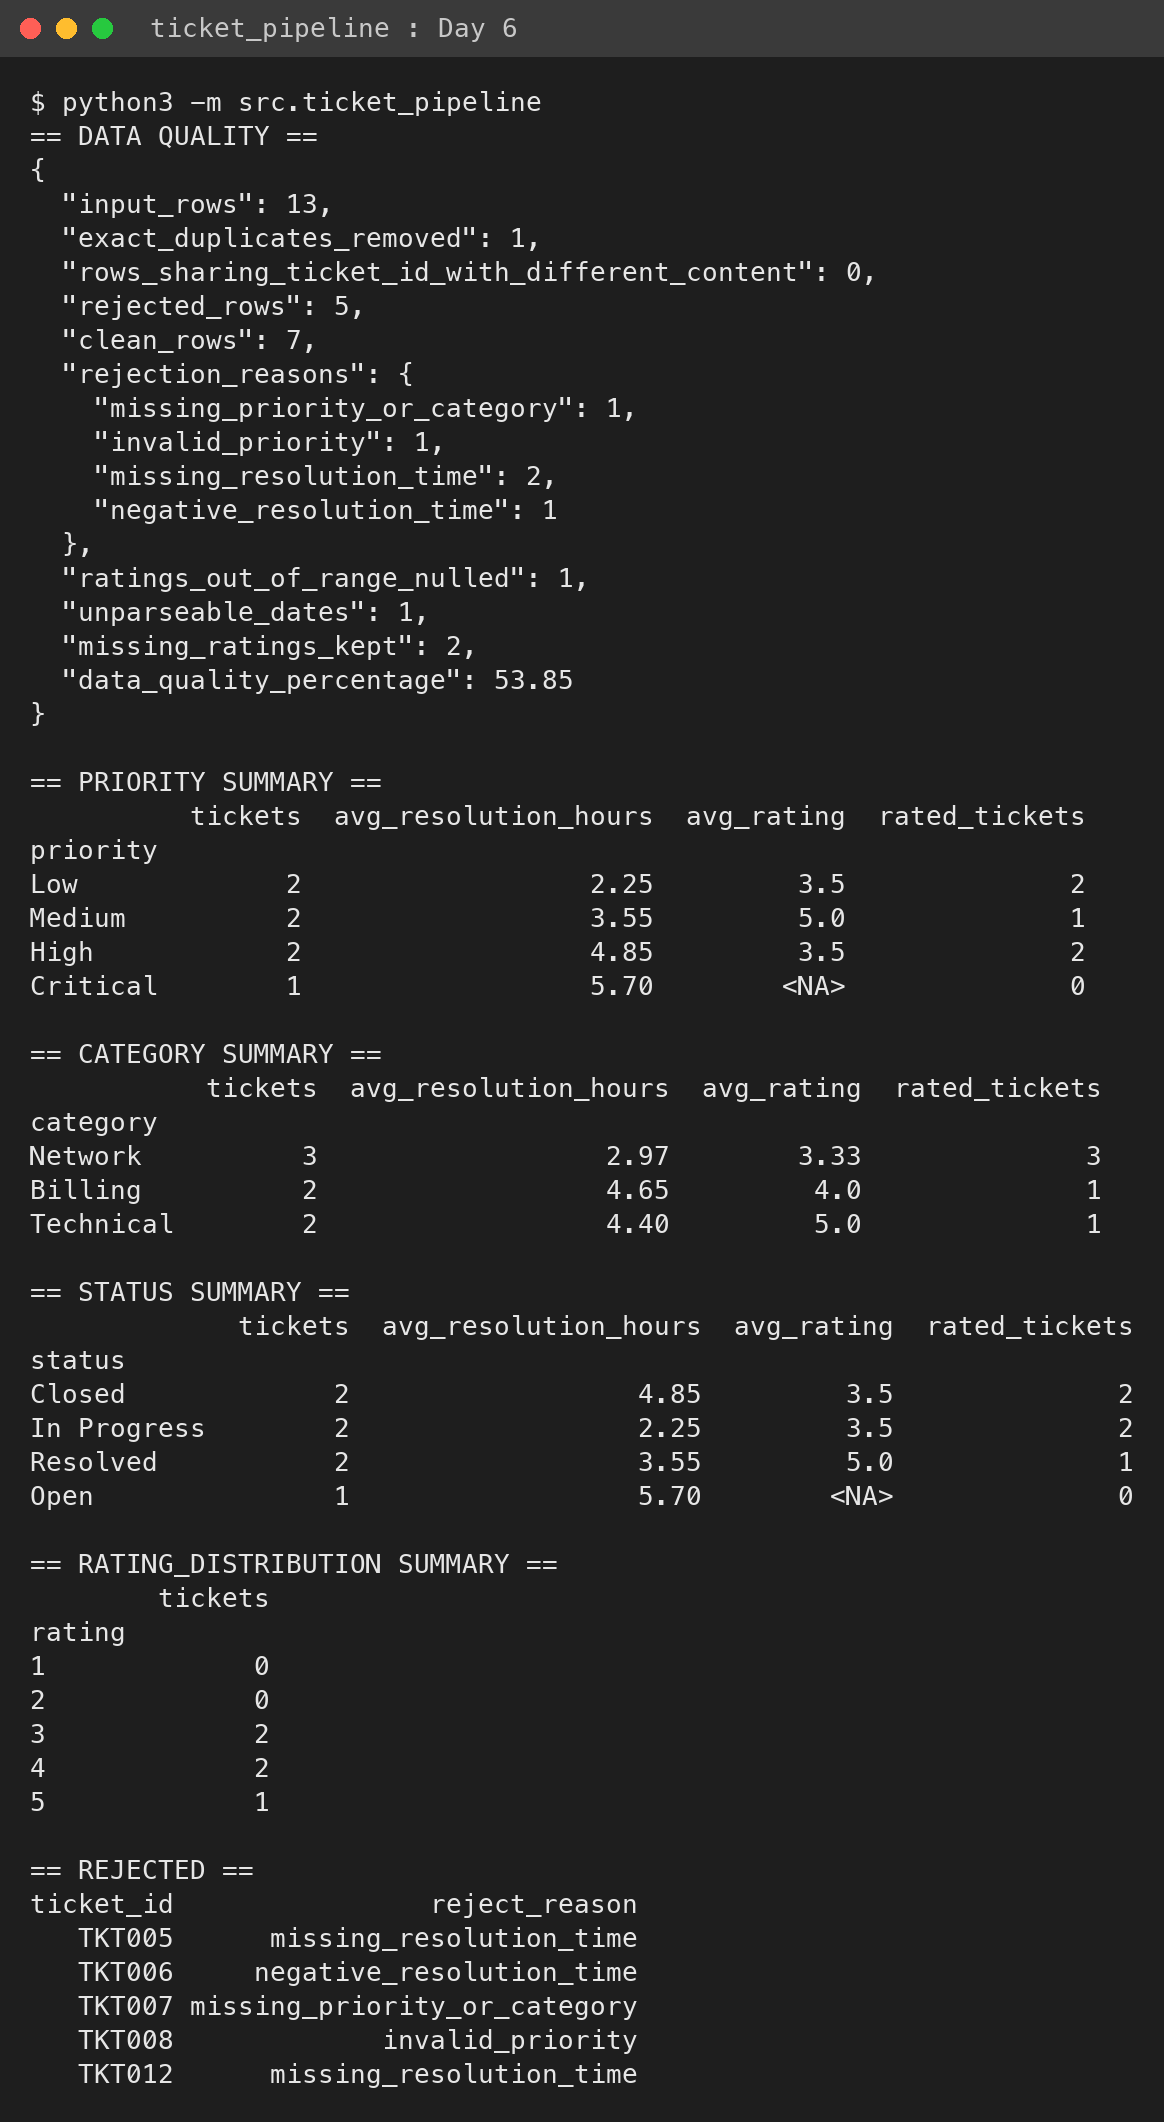
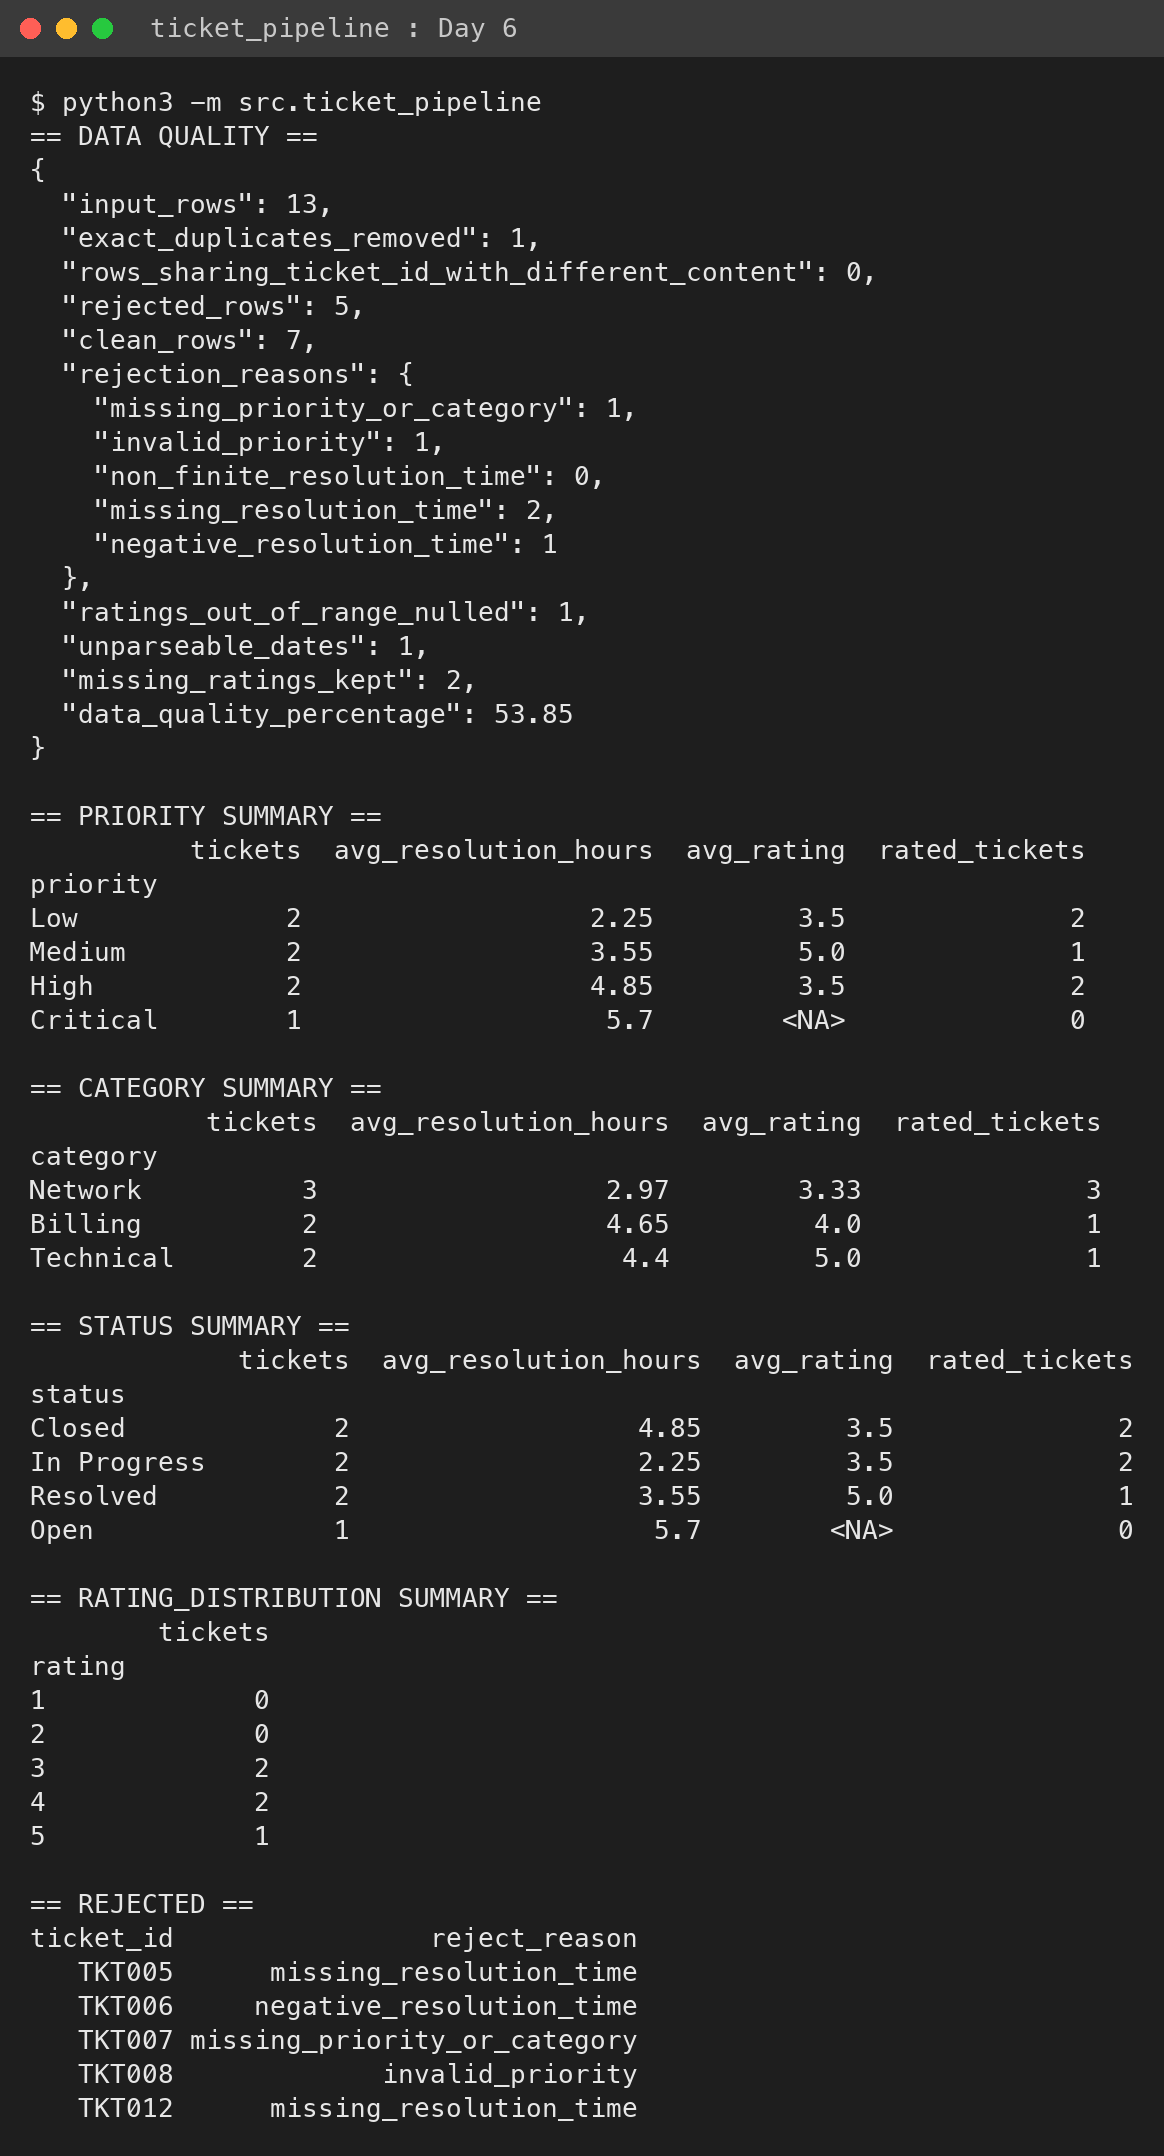
Harden CSV loading and validation; add regression tests
Reject non-finite resolution times, duplicate raw/normalized headers and
rows with wrong field counts; clear errors for missing/empty/non-UTF-8
files; stop title-casing category (IT -> It). 29 tests pass.

diff --git a/src/ticket_pipeline.py b/src/ticket_pipeline.py
@@ -3,11 +3,12 @@
 Cleaning rules (assumptions)
 ----------------------------
 R1  Column names are trimmed, lower-cased, spaces -> underscores.
-R2  Text fields are trimmed; priority/status are Title-cased, category too.
+R2  Text fields are trimmed; priority/status are Title-cased; category case
+    variants are unified to the most common spelling (keeps "IT" intact).
     Blank strings become missing (NA).
 R3  Exact duplicate rows are dropped (first kept); duplicate ticket_id with
     different content is flagged but both rows are kept for review.
-R4  Non-numeric / negative resolution_time_hours -> invalid, row rejected.
+R4  Non-numeric / negative / infinite resolution_time_hours -> invalid, row rejected.
     Missing resolution time is NEVER imputed (unknown != 0 or mean).
 R5  Missing priority or category -> row rejected (cannot be summarised).
 R6  priority must be in VALID_PRIORITIES, otherwise rejected (no guessing,
@@ -16,13 +17,19 @@ R7  rating must be an integer 1-5. Missing rating is KEPT as NA (a ticket
     can be valid without feedback); out-of-range rating is set to NA and
     counted, the row itself stays valid.
 R8  Unparseable created_at -> NA (ISO strings kept), counted, row stays valid.
+Input shape (strict, in load_ticket_csv): duplicate headers (raw or after
+normalization), rows with the wrong field count, empty/missing/undecodable
+files all raise TicketDataError - nothing is guessed or shifted.
 Raw input is never mutated; every step works on a copy.
 """
 
 from __future__ import annotations
 
+import csv
 from datetime import date
+from pathlib import Path
 
+import numpy as np
 import pandas as pd
 
 
@@ -48,6 +55,60 @@ RATING_RANGE = (1, 5)
 
 
 # ---------- Task A: schema ----------
+class TicketDataError(ValueError):
+    """Raised for unreadable, malformed or ambiguous ticket input."""
+
+
+def _norm_name(name: str) -> str:
+    return str(name).strip().lower().replace(" ", "_")
+
+
+def load_ticket_csv(path: str | Path) -> pd.DataFrame:
+    """Read a CSV as strings with strict shape checks. Raw file is not modified.
+
+    Uses the csv module (not pd.read_csv) so that duplicate raw headers are
+    seen before pandas renames them (priority -> priority.1), rows with too
+    many/few fields are rejected instead of shifting columns, and no column
+    is silently turned into the index.
+    """
+    path = Path(path)
+    if not path.exists():
+        raise TicketDataError(f"File not found: {path}")
+    if not path.is_file():
+        raise TicketDataError(f"Not a file: {path}")
+    try:
+        text = path.read_text(encoding="utf-8-sig")
+    except UnicodeDecodeError as exc:
+        raise TicketDataError("CSV must be UTF-8 encoded.") from exc
+    except OSError as exc:
+        raise TicketDataError(f"Cannot read {path}: {exc.strerror}") from exc
+
+    try:
+        rows = [r for r in csv.reader(text.splitlines(), strict=True) if any(c.strip() for c in r)]
+    except csv.Error as exc:
+        raise TicketDataError(f"Malformed CSV: {exc}") from exc
+    if not rows:
+        raise TicketDataError("CSV file is empty.")
+
+    header, body = rows[0], rows[1:]
+    raw_dupes = {h for h in header if header.count(h) > 1}
+    if raw_dupes:
+        raise TicketDataError(f"Duplicate column names: {', '.join(sorted(raw_dupes))}")
+    normed = [_norm_name(h) for h in header]
+    norm_dupes = {h for h in normed if normed.count(h) > 1}
+    if norm_dupes:
+        raise TicketDataError(
+            f"Duplicate column names after normalization: {', '.join(sorted(norm_dupes))}"
+        )
+    for line_no, row in enumerate(rows[1:], start=2):
+        if len(row) != len(header):
+            raise TicketDataError(
+                f"Malformed CSV: row {line_no} has {len(row)} fields, expected {len(header)}."
+            )
+    df = pd.DataFrame(body, columns=header, dtype="string")
+    return df.replace("", pd.NA)
+
+
 def normalize_columns(df: pd.DataFrame) -> pd.DataFrame:
     out = df.copy()
     out.columns = [str(c).strip().lower().replace(" ", "_") for c in out.columns]
@@ -55,17 +116,29 @@ def normalize_columns(df: pd.DataFrame) -> pd.DataFrame:
 
 
 def validate_schema(df: pd.DataFrame) -> None:
-    """Raise ValueError if required columns are missing/duplicated or df empty."""
+    """Raise TicketDataError (a ValueError) if required columns are missing/duplicated or df empty."""
     if df.columns.duplicated().any():
-        raise ValueError("Duplicate column names after normalization.")
+        raise TicketDataError("Duplicate column names after normalization.")
     missing = [c for c in REQUIRED_SCHEMA if c not in df.columns]
     if missing:
-        raise ValueError(f"Missing required columns: {', '.join(missing)}")
+        raise TicketDataError(f"Missing required columns: {', '.join(missing)}")
     if df.empty:
-        raise ValueError("Input contains no rows.")
+        raise TicketDataError("Input contains no rows.")
 
 
 # ---------- Task B: cleaning ----------
+def _canonical_case(series: pd.Series) -> pd.Series:
+    """Map case-variants ("network", "Network") to one deterministic spelling."""
+    valid = series.dropna()
+    if valid.empty:
+        return series
+    counts = valid.value_counts()
+    canon = {}
+    for value in sorted(counts.index, key=lambda v: (-counts[v], v)):
+        canon.setdefault(value.casefold(), value)
+    return series.map(lambda v: canon[v.casefold()] if pd.notna(v) else v).astype("string")
+
+
 def clean_tickets(raw: pd.DataFrame) -> tuple[pd.DataFrame, pd.DataFrame, dict]:
     """Return (clean, rejected, stats). `raw` is left unchanged."""
     df = normalize_columns(raw)
@@ -75,7 +148,7 @@ def clean_tickets(raw: pd.DataFrame) -> tuple[pd.DataFrame, pd.DataFrame, dict]:
     for col in ["ticket_id", "priority", "category", "status"]:
         if col in df.columns:
             df[col] = df[col].astype("string").str.strip().replace("", pd.NA)
-    for col in ["priority", "category", "status"]:
+    for col in ["priority", "status"]:
         if col in df.columns:
             df[col] = df[col].str.title()
 
@@ -83,6 +156,9 @@ def clean_tickets(raw: pd.DataFrame) -> tuple[pd.DataFrame, pd.DataFrame, dict]:
     dup_exact = df.duplicated(keep="first")
     n_dup_exact = int(dup_exact.sum())
     df = df.loc[~dup_exact].copy()
+    # Category: unify case variants to the most common spelling (ties ->
+    # alphabetical) instead of .title(), which would corrupt "IT" -> "It".
+    df["category"] = _canonical_case(df["category"])
     conflicting_ids = int(
         df["ticket_id"].dropna().duplicated(keep=False).sum()
     )
@@ -91,6 +167,9 @@ def clean_tickets(raw: pd.DataFrame) -> tuple[pd.DataFrame, pd.DataFrame, dict]:
     df["resolution_time_hours"] = pd.to_numeric(
         df["resolution_time_hours"], errors="coerce"
     )
+    # R4b: +inf/-inf are not real durations; count separately, then treat as invalid
+    non_finite = np.isinf(df["resolution_time_hours"].astype("float64"))
+    df.loc[non_finite, "resolution_time_hours"] = np.nan
 
     # optional columns
     rating_out_of_range = 0
@@ -113,13 +192,15 @@ def clean_tickets(raw: pd.DataFrame) -> tuple[pd.DataFrame, pd.DataFrame, dict]:
     reasons = pd.DataFrame(index=df.index)
     reasons["missing_priority_or_category"] = df[["priority", "category"]].isna().any(axis=1)
     reasons["invalid_priority"] = df["priority"].notna() & ~df["priority"].isin(VALID_PRIORITIES)
-    reasons["missing_resolution_time"] = df["resolution_time_hours"].isna()
+    reasons["non_finite_resolution_time"] = non_finite
+    reasons["missing_resolution_time"] = df["resolution_time_hours"].isna() & ~non_finite
     reasons["negative_resolution_time"] = df["resolution_time_hours"] < 0
+    reasons = reasons.fillna(False).astype(bool)
     reject = reasons.any(axis=1)
 
     rejected = df.loc[reject].copy()
     rejected["reject_reason"] = [
-        ";".join(reasons.columns[list(flags)])
+        ";".join(reasons.columns[np.asarray(flags, dtype=bool)])
         for flags in reasons.loc[reject].to_numpy()
     ]
     clean = df.loc[~reject].reset_index(drop=True)
@@ -167,8 +248,7 @@ def build_report(clean: pd.DataFrame) -> dict[str, pd.DataFrame]:
 
 # ---------- orchestration ----------
 def run_pipeline(raw_path: str, out_dir: str) -> dict:
-    from pathlib import Path
-    raw = pd.read_csv(raw_path, dtype=str, keep_default_na=True)
+    raw = load_ticket_csv(raw_path)
     clean, rejected, stats = clean_tickets(raw)
     report = build_report(clean)
     out = Path(out_dir)
@@ -184,7 +264,11 @@ if __name__ == "__main__":
     import json
     import sys
     raw_path = sys.argv[1] if len(sys.argv) > 1 else "data/raw/tickets_raw.csv"
-    res = run_pipeline(raw_path, "data/processed")
+    try:
+        res = run_pipeline(raw_path, "data/processed")
+    except TicketDataError as exc:
+        print(f"ERROR: {exc}", file=sys.stderr)
+        sys.exit(1)
     print("== DATA QUALITY ==")
     print(json.dumps(res["stats"], indent=2))
     for name, table in res["report"].items():

diff --git a/tests/test_ticket_pipeline.py b/tests/test_ticket_pipeline.py
@@ -1,7 +1,14 @@
 import pandas as pd
 import pytest
 
-from src.ticket_pipeline import build_report, clean_tickets, validate_schema
+from src.ticket_pipeline import (
+    TicketDataError,
+    build_report,
+    clean_tickets,
+    load_ticket_csv,
+    run_pipeline,
+    validate_schema,
+)
 
 
 def make(rows):
@@ -111,3 +118,90 @@ def test_bad_date_nulled_row_kept():
     clean, _, stats = clean_tickets(df)
     assert len(clean) == 1 and pd.isna(clean.loc[0, "created_at"])
     assert stats["unparseable_dates"] == 1
+
+
+# ---------- loader / review-derived regressions ----------
+HEADER = "ticket_id,priority,category,resolution_time_hours\n"
+
+
+def write(tmp_path, text, name="t.csv"):
+    p = tmp_path / name
+    p.write_text(text)
+    return p
+
+
+@pytest.mark.parametrize("value", ["inf", "-inf", "Infinity"])
+def test_non_finite_resolution_rejected(tmp_path, value):
+    raw = load_ticket_csv(write(tmp_path, HEADER + f"T1,High,IT,{value}\nT2,Low,Billing,2\n"))
+    clean, rejected, stats = clean_tickets(raw)
+    assert clean["resolution_time_hours"].tolist() == [2.0]
+    assert rejected["reject_reason"].iloc[0] == "non_finite_resolution_time"
+    assert stats["rejection_reasons"]["non_finite_resolution_time"] == 1
+    assert build_report(clean)["category"]["avg_resolution_hours"].notna().all()
+
+
+def test_extra_fields_raise_not_shift(tmp_path):
+    with pytest.raises(TicketDataError, match="row 2 has 5 fields, expected 4"):
+        load_ticket_csv(write(tmp_path, HEADER + "T1,High,IT,3,EXTRA\nT2,Low,Billing,2,X\n"))
+
+
+def test_short_row_raises(tmp_path):
+    with pytest.raises(TicketDataError, match="row 2 has 3 fields"):
+        load_ticket_csv(write(tmp_path, HEADER + "T1,High,IT\n"))
+
+
+@pytest.mark.parametrize("header", [
+    "ticket_id,priority,priority,category,resolution_time_hours",    # identical
+    "ticket_id,priority,category,resolution_time_hours, Priority",   # case/space variant
+    "ticket_id,priority,category,resolution_time_hours,PRIORITY",
+    "ticket_id,priority,category,resolution_time_hours,priority ",   # trailing space
+])
+def test_duplicate_headers_rejected(tmp_path, header):
+    with pytest.raises(TicketDataError, match="Duplicate column names"):
+        load_ticket_csv(write(tmp_path, header + "\n"))
+
+
+def test_missing_and_non_file_paths(tmp_path):
+    with pytest.raises(TicketDataError, match="File not found"):
+        load_ticket_csv(tmp_path / "nope.csv")
+    with pytest.raises(TicketDataError, match="Not a file"):
+        load_ticket_csv(tmp_path)
+
+
+@pytest.mark.parametrize("text", ["", "   \n\n"])
+def test_empty_file(tmp_path, text):
+    with pytest.raises(TicketDataError, match="empty"):
+        load_ticket_csv(write(tmp_path, text))
+
+
+def test_header_only_no_rows(tmp_path):
+    with pytest.raises(TicketDataError, match="no rows"):
+        clean_tickets(load_ticket_csv(write(tmp_path, HEADER)))
+
+
+def test_missing_required_column_from_file(tmp_path):
+    raw = load_ticket_csv(write(tmp_path, "ticket_id,priority\nT1,High\n"))
+    with pytest.raises(TicketDataError, match="Missing required columns: category, resolution_time_hours"):
+        clean_tickets(raw)
+
+
+def test_non_utf8_rejected(tmp_path):
+    p = tmp_path / "bad.csv"
+    p.write_bytes(HEADER.encode() + b"T1,High,\xff\xfe,3\n")
+    with pytest.raises(TicketDataError, match="UTF-8"):
+        load_ticket_csv(p)
+
+
+def test_acronym_category_not_corrupted(tmp_path):
+    raw = load_ticket_csv(write(tmp_path, HEADER + "T1,High,IT,3\nT2,Low,IT,2\nT3,Low,it,1\n"))
+    clean, _, _ = clean_tickets(raw)
+    assert set(clean["category"]) == {"IT"}
+
+
+def test_end_to_end_run_pipeline_writes_outputs(tmp_path):
+    text = HEADER + "T1,High,IT,3\nT2,Low,Billing,bad\n"
+    p = write(tmp_path, text)
+    res = run_pipeline(p, tmp_path / "out")
+    assert len(res["clean"]) == 1 and len(res["rejected"]) == 1
+    assert (tmp_path / "out" / "tickets_clean.csv").exists()
+    assert p.read_text() == text  # raw untouched

diff --git a/daily_report.md b/daily_report.md
@@ -27,11 +27,19 @@ Pull Request: N/A — no pull request created
   - Raw data is left unchanged. Outputs go to `data/processed/`.
   - A messy sample dataset is in `data/raw/tickets_raw.csv`.
   - The README covers setup, assumptions and limitations.
-- **Tests/experiment results:** 12 of 12 pytest tests pass (`evidence/test_results.txt`). The sample run turned 13 raw rows into 7 clean rows, 5 rejected rows and 1 removed duplicate. Data quality was 53.85% (`evidence/pipeline_output.txt`).
+- **Tests/experiment results:** 29 of 29 pytest tests pass (`evidence/test_results.txt`). The sample run turned 13 raw rows into 7 clean rows, 5 rejected rows and 1 removed duplicate. Data quality was 53.85% (`evidence/pipeline_output.txt`).
 - **One bug or challenge and its root cause:**
   - **Challenge:** The pipeline crashed with exit code 139 (a segfault). Cause: `pd.to_datetime` and Timestamp creation segfault on this machine (Python 3.15 with pandas 2.3.3).
   - **Fix:** I validate `created_at` with `datetime.date.fromisoformat` and keep it as ISO strings.
   - **Other bug:** The first test run failed because `DataFrame.apply(axis=1)` on an empty frame returns a DataFrame, which broke assigning `reject_reason`. I replaced it with a list comprehension.
+- **Review-derived fixes:** Checked against earlier code reviews (Day 3/4) and fixed:
+  - infinite resolution times were accepted as valid
+  - duplicate raw headers were renamed by pandas and accepted
+  - extra or short rows silently shifted data
+  - empty or missing files raised raw pandas/OS errors
+  - `.title()` corrupted the category "IT" to "It"
+
+  All now have regression tests.
 - **One design decision and why:** Rows with missing or invalid resolution time, or an invalid priority, are rejected and logged. They are not imputed or mapped. A missing value is not the same as 0 or the average, and "Urgent" is not necessarily "Critical". Missing ratings are kept as missing, because a ticket can be valid without feedback, and averages ignore them.
 - **Blocker and what I tried:** The Timestamp segfault above. I tried an explicit date format and checked the traceback with `faulthandler`. I then worked around it with the standard library. Nothing else is blocking.
 - **Tomorrow's plan:** After Successfully passing Day-6 Task, will get Day-7 Task.

diff --git a/README.md b/README.md
@@ -13,11 +13,12 @@ Layout: `data/raw` (never modified) · `data/processed` (clean, rejected, summar
 ## Cleaning assumptions (also in the module docstring)
 | Rule | Behaviour |
 |---|---|
-| Names/text | columns snake_cased; text trimmed, Title-cased; blanks -> NA |
+| Names/text | columns snake_cased; priority/status trimmed and Title-cased; blanks -> NA |
 | Duplicates | exact duplicates dropped (first kept); same ticket_id with different content only flagged |
-| Resolution time | non-numeric / negative / missing -> row **rejected**, never imputed; 0 is valid |
+| Resolution time | non-numeric / negative / infinite / missing -> row **rejected**, never imputed; 0 is valid |
 | Priority | must be Low/Medium/High/Critical; unknown values (e.g. "Urgent") rejected, not mapped |
-| Category | missing -> rejected |
+| Category | missing -> rejected; case variants unified to most common spelling ("IT" stays "IT") |
+| Input shape | `load_ticket_csv` raises `TicketDataError` for missing/empty/non-UTF-8 files, duplicate headers (raw or after normalization), and rows with the wrong field count, with no guessing or shifting |
 | Rating | integer 1–5; missing kept as NA; out-of-range set to NA (row kept) |
 | created_at | invalid -> NA (row kept) |
 
@@ -25,7 +26,7 @@ Rejected rows go to `tickets_rejected.csv` with a `reject_reason`, so nothing di
 Averages ignore NA ratings (and report `rated_tickets`), so missing is not treated as 0.
 
 ## Results
-12 tests pass (`evidence/test_results.txt`). Sample run: 13 raw rows → 7 clean, 5 rejected, 1 duplicate removed, 53.85% quality (`evidence/pipeline_output.txt`).
+29 tests pass (`evidence/test_results.txt`). Sample run: 13 raw rows → 7 clean, 5 rejected, 1 duplicate removed, 53.85% quality (`evidence/pipeline_output.txt`).
 
 ## Screenshots
 ![pytest results](screenshots/01_pytest_results.png)
